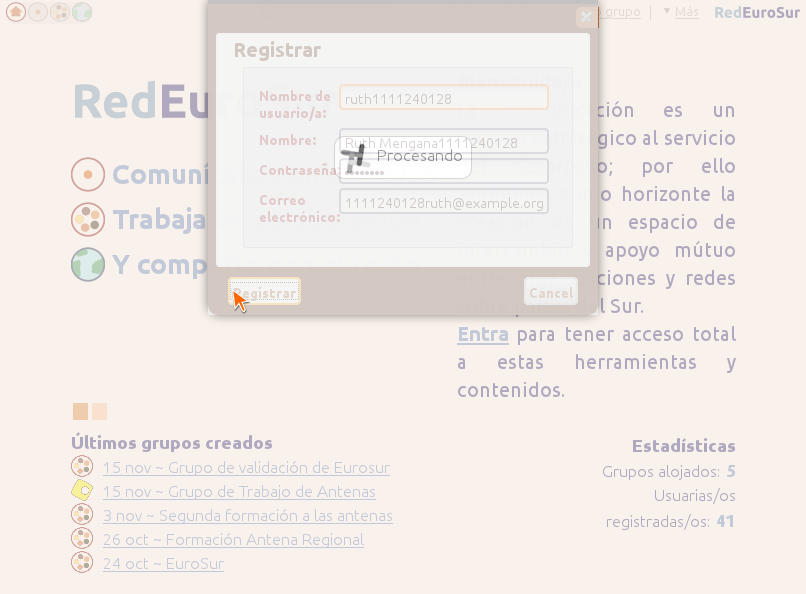
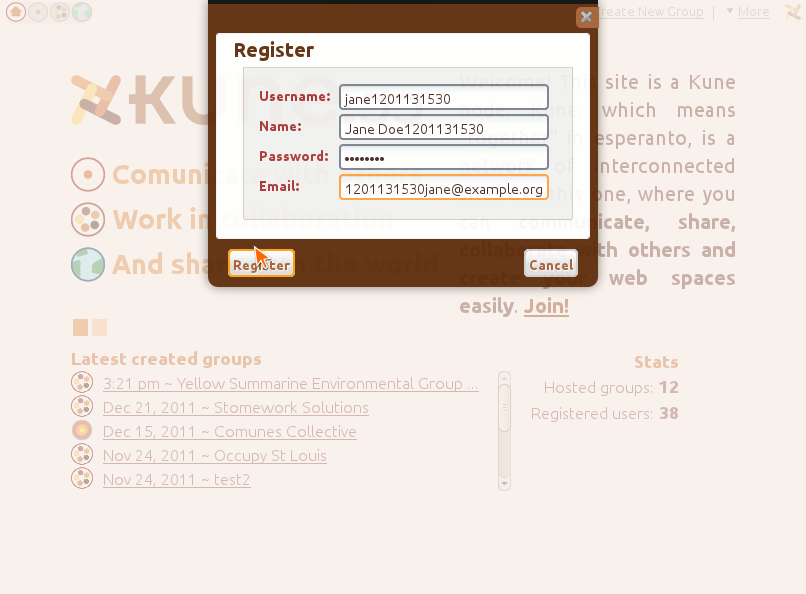
Screencast improved (work in progress)

diff --git a/src/test/java/cc/kune/selenium/login/ScreenCastsViaSeleniumTests.java b/src/test/java/cc/kune/selenium/login/ScreenCastsViaSeleniumTests.java
@@ -30,10 +30,10 @@ import cc.kune.selenium.SeleniumUtils;
 
 import com.calclab.emite.core.client.xmpp.stanzas.XmppURI;
 
-public class RegisterSeleniumTests extends KuneSeleniumTest {
+public class ScreenCastsViaSeleniumTests extends KuneSeleniumTest {
 
   @Test(dataProvider = "correctregister")
-  public void basicRegister(final String shortNameUntrans, final String longNameUntrans,
+  public void globalScreencast(final String shortNameUntrans, final String longNameUntrans,
       final String passwd, final String emailUntrans) {
     final String shortName = t(shortNameUntrans);
     final String longName = t(longNameUntrans);
@@ -44,11 +44,39 @@ public class RegisterSeleniumTests extends KuneSeleniumTest {
     showTitleSlide(t("User registration"), t("to get full access to this site tools/contents"));
     login.createOne();
     register.fillRegisterForm(shortName + prefix, longName + prefix, passwd, prefix + email, false, true);
-    doScreenshot("register");
     sleep(1000);
     login.assertIsConnectedAs(prefix);
     entityHeader.waitForEntityTitle(longName + prefix);
     register.getWelcomeMsg().click();
+
+    // group space
+    showTitleSlide(t("Group space (collaboration space)"),
+        t("Here you can create groups and collaborate within them"));
+    site.groupSpaceBtn.click();
+    site.groupSpaceBtn.click();
+    showMsg(t("Let's create a new group"));
+    site.newGroupBtn.click();
+    newGroup.shortName.sendKeys("yseg" + prefix);
+    newGroup.longName.sendKeys(t("Yellow Summarine Environmental Group ") + prefix);
+    newGroup.publicDescription.sendKeys(t("The Yellow Summarine Environmental Group is an Argentine-Based environmental"
+        + " direct action group. Currently we are focusing or activities in the environmental impact of mining."));
+    newGroup.tags.sendKeys(t("environmental, Argentina, action"));
+    newGroup.projectType.click();
+    showTooltip(newGroup.projectType);
+    doScreenshot("newgroup");
+    newGroup.registerBtn.click();
+    showTitleSlide(t("Group space (collaboration space) III "),
+        t("Let's see the diferent tools you have available"));
+    groupSpace.blogTool.click();
+    sleep(2000);
+    groupSpace.wikiTool.click();
+    sleep(2000);
+    groupSpace.listTool.click();
+    sleep(2000);
+    groupSpace.eventTool.click();
+
+    showTitleSlide(t("Group space (collaboration space) II"),
+        t("but also you can have your personal space (with blogs, etc)"));
 
     // home space
     showTitleSlide(t("Home space (your welcome page)"),
@@ -92,7 +120,7 @@ public class RegisterSeleniumTests extends KuneSeleniumTest {
     site.groupSpaceBtn.click();
     showMsg(t("Let's start adding some buddie to our social network"));
     sleep(1000);
-    groupSpace.addBuddieBtn().click();
+    groupSpace.addBuddieBtn.click();
     groupSpace.addNewBuddieTextBox.click();
     groupSpace.addNewBuddieTextBox.sendKeys("admin");
     groupSpace.addNewBuddieTextBox.sendKeys(Keys.ARROW_DOWN);
@@ -100,7 +128,7 @@ public class RegisterSeleniumTests extends KuneSeleniumTest {
     groupSpace.firstFromSuggestionBox.click();
     site.confirmationOk.click();
     sleep(500);
-    groupSpace.searchEntitiesOk().click();
+    groupSpace.searchEntitiesOk.click();
     // groupSpace.firstAvatarOfGroup().click();
     sleep(2000);
 

diff --git a/src/test/java/cc/kune/selenium/spaces/GroupSpacePageObject.java b/src/test/java/cc/kune/selenium/spaces/GroupSpacePageObject.java
@@ -32,76 +32,32 @@ import cc.kune.selenium.SeleniumConstants;
 public class GroupSpacePageObject extends PageObject {
 
   @FindBy(id = SeleniumConstants.GWTDEV + UserSNConfActions.ADD_BUDDIE_BTN)
-  private WebElement addBuddieBtn;
+  public WebElement addBuddieBtn;
   @FindBy(id = SeleniumConstants.GWTDEV + AddNewBuddiesAction.ADD_NEW_BUDDIES_TEXTBOX)
   public WebElement addNewBuddieTextBox;
   @FindBy(id = SeleniumConstants.GWTDEV + AddEntityToThisGroupAction.ADD_NEW_MEMBER_TEXTBOX)
   public WebElement addNewMemberTextBox;
   @FindBy(xpath = "//div[2]/div/div[3]/div/span")
-  private WebElement blogTool;
+  public WebElement blogTool;
   @FindBy(xpath = "//div[2]/div/div[4]/div/span")
-  private WebElement chatTool;
+  public WebElement chatTool;
   @FindBy(xpath = "//div[3]/div/div[2]/div/div/div/span")
-  private WebElement docTool;
+  public WebElement docTool;
   @FindBy(xpath = "//div[2]/div/div[6]/div/span")
-  private WebElement eventTool;
+  public WebElement eventTool;
   @FindBy(xpath = "//td/img")
-  private WebElement firstAvatarOfGroup;
+  public WebElement firstAvatarOfGroup;
   @FindBy(xpath = "//td[2]/div/div/table/tbody/tr/td")
   public WebElement firstFromSuggestionBox;
   @FindBy(xpath = "//div[2]/div/div[5]/div/span")
-  private WebElement listTool;
+  public WebElement listTool;
   @FindBy(id = SeleniumConstants.GWTDEV + EntitySearchPanel.OK_ID)
-  private WebElement searchEntitiesOk;
+  public WebElement searchEntitiesOk;
   @FindBy(xpath = "//div[3]/div/button")
-  private WebElement socialNetOptions;
+  public WebElement socialNetOptions;
   @FindBy(xpath = "//div[2]/div/div[7]/div/span")
-  private WebElement taskTool;
+  public WebElement taskTool;
   @FindBy(xpath = "//div[2]/div/div[7]/div/span")
-  private WebElement wikiTool;
-
-  public WebElement addBuddieBtn() {
-    return addBuddieBtn;
-  }
-
-  public WebElement blogTool() {
-    return blogTool;
-  }
-
-  public WebElement chatTool() {
-    return chatTool;
-  }
-
-  public WebElement docTool() {
-    return docTool;
-  }
-
-  public WebElement eventTool() {
-    return eventTool;
-  }
-
-  public WebElement firstAvatarOfGroup() {
-    return firstAvatarOfGroup;
-  }
-
-  public WebElement listTool() {
-    return listTool;
-  }
-
-  public WebElement searchEntitiesOk() {
-    return searchEntitiesOk;
-  }
-
-  public WebElement socialNetOptions() {
-    return socialNetOptions;
-  }
-
-  public WebElement taskTool() {
-    return taskTool;
-  }
-
-  public WebElement wikiTool() {
-    return wikiTool;
-  }
+  public WebElement wikiTool;
 
 }

diff --git a/src/test/java/cc/kune/selenium/SeleniumConf.java b/src/test/java/cc/kune/selenium/SeleniumConf.java
@@ -56,8 +56,8 @@ public final class SeleniumConf {
 
   public static final Driver DRIVER = Driver.firefox;
   /* Configure this for use other lang, site, or driver */
-  public static final Lang LANG = Lang.es;
-  public static final Site SITE = Site.localhost;
+  public static final Lang LANG = Lang.en;
+  public static final Site SITE = Site.demo;
   public static final int TIMEOUT = 25;
 
   SeleniumConf() {

diff --git a/src/test/java/cc/kune/selenium/login/RegisterPageObject.java b/src/test/java/cc/kune/selenium/login/RegisterPageObject.java
@@ -65,7 +65,7 @@ public class RegisterPageObject extends AbstractLoginObject {
     hightlight(registerButton);
     if (doScreenshot) {
       SeleniumUtils.doScreenshot(getWebDriver(), "register");
-      sleep(4000);
+      sleep(2000);
     }
     if (withReturn) {
       email.sendKeys(Keys.RETURN);
